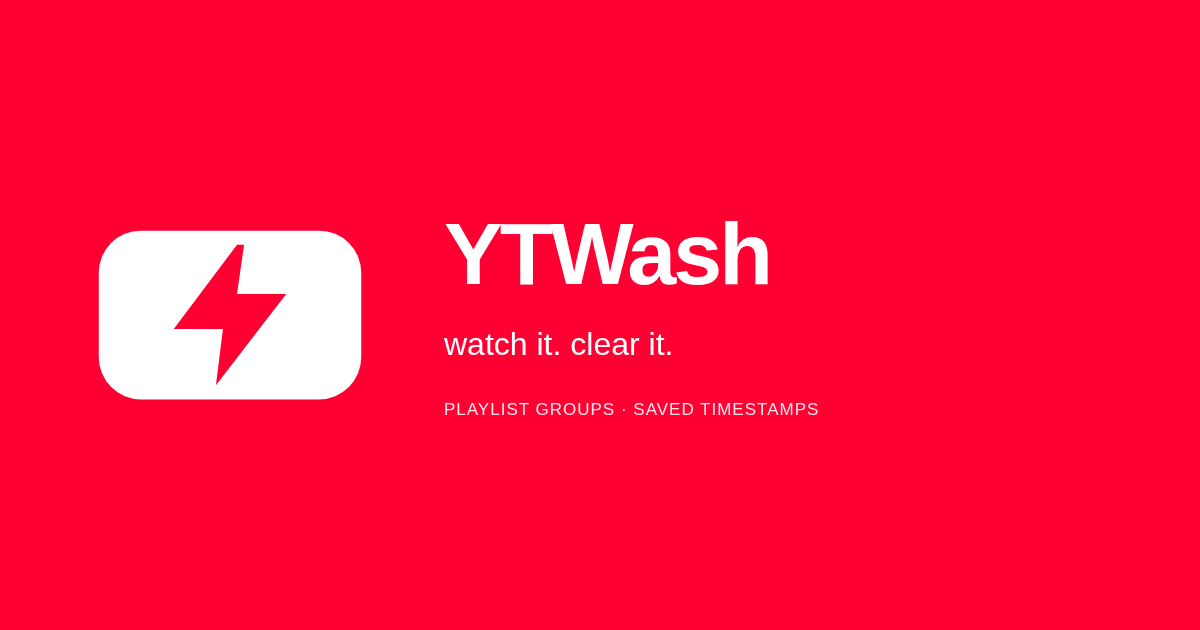
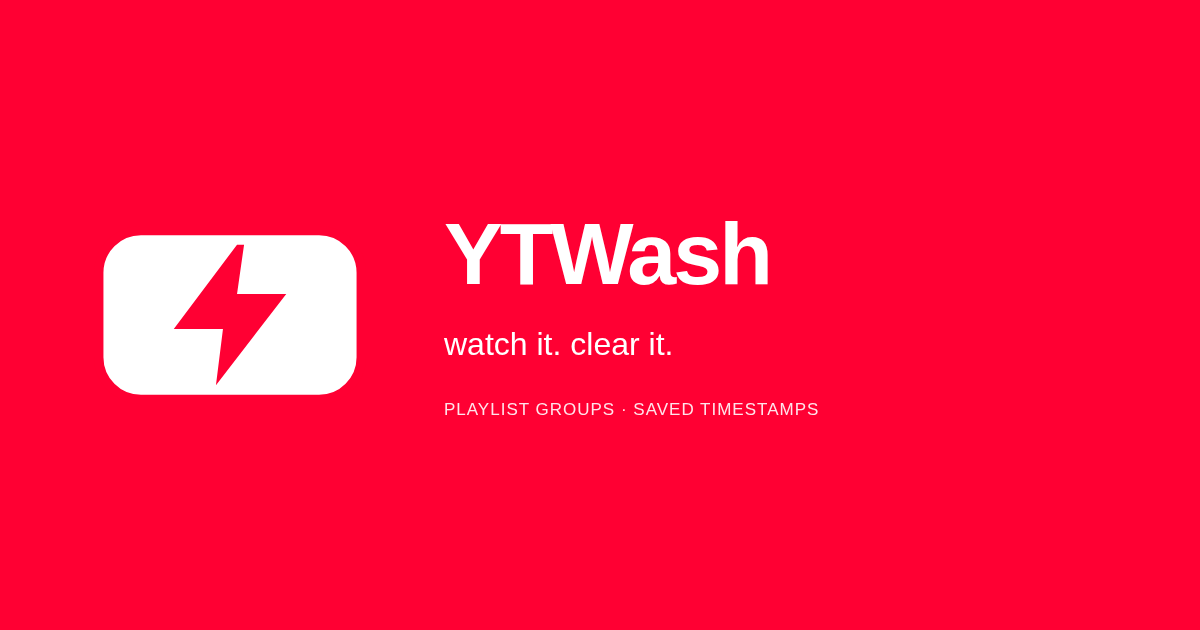
Add a solid red border to the white lightning button

Changed region(s): [[0.0925, 0.3619, 0.3083, 0.6333], [0.0617, 0.3921, 0.0925, 0.6032]]

diff --git a/assets/brand/social-preview.html b/assets/brand/social-preview.html
@@ -5,5 +5,5 @@
   .copy{flex:1}h1{font-size:88px;letter-spacing:-3px;margin:0 0 24px;line-height:1}
   p{font-size:32px;line-height:1.4;margin:0;max-width:720px;font-weight:500}
   .features{font-size:17px;letter-spacing:1px;margin-top:34px;color:#ffe4eb}
-  </style></head><body><div class="logo"><svg xmlns="http://www.w3.org/2000/svg" viewBox="0 0 512 512" role="img" aria-label="YTWash"><rect x="32" y="112" width="448" height="288" rx="72" fill="#ffffff" fill-opacity="1"/><path d="M13 2 4 14h7l-1 8 10-13h-7l1-7z" transform="translate(112 112) scale(12)" fill="#ff0033"/></svg>
+  </style></head><body><div class="logo"><svg xmlns="http://www.w3.org/2000/svg" viewBox="0 0 512 512" role="img" aria-label="YTWash"><rect x="32" y="112" width="448" height="288" rx="72" fill="#ffffff" fill-opacity="1" stroke="#ff0033" stroke-width="16"/><path d="M13 2 4 14h7l-1 8 10-13h-7l1-7z" transform="translate(112 112) scale(12)" fill="#ff0033"/></svg>
 </div><div class="copy"><h1>YTWash</h1><p>watch it. clear it.</p><div class="features">PLAYLIST GROUPS · SAVED TIMESTAMPS</div></div></body></html>

diff --git a/assets/brand/store-marquee.html b/assets/brand/store-marquee.html
@@ -5,5 +5,5 @@
   .copy{flex:1}h1{font-size:88px;letter-spacing:-3px;margin:0 0 24px;line-height:1}
   p{font-size:32px;line-height:1.4;margin:0;max-width:720px;font-weight:500}
   .features{font-size:17px;letter-spacing:1px;margin-top:34px;color:#ffe4eb}
-  </style></head><body><div class="logo"><svg xmlns="http://www.w3.org/2000/svg" viewBox="0 0 512 512" role="img" aria-label="YTWash"><rect x="32" y="112" width="448" height="288" rx="72" fill="#ffffff" fill-opacity="1"/><path d="M13 2 4 14h7l-1 8 10-13h-7l1-7z" transform="translate(112 112) scale(12)" fill="#ff0033"/></svg>
+  </style></head><body><div class="logo"><svg xmlns="http://www.w3.org/2000/svg" viewBox="0 0 512 512" role="img" aria-label="YTWash"><rect x="32" y="112" width="448" height="288" rx="72" fill="#ffffff" fill-opacity="1" stroke="#ff0033" stroke-width="16"/><path d="M13 2 4 14h7l-1 8 10-13h-7l1-7z" transform="translate(112 112) scale(12)" fill="#ff0033"/></svg>
 </div><div class="copy"><h1>YTWash</h1><p>watch it. clear it.</p><div class="features">PLAYLIST GROUPS · SAVED TIMESTAMPS</div></div></body></html>

diff --git a/assets/brand/store-tile.html b/assets/brand/store-tile.html
@@ -5,5 +5,5 @@
   .copy{flex:1}h1{font-size:38px;letter-spacing:-3px;margin:0 0 12px;line-height:1}
   p{font-size:17px;line-height:1.4;margin:0;max-width:720px;font-weight:500}
   .features{font-size:11px;letter-spacing:0px;margin-top:18px;color:#ffe4eb}
-  </style></head><body><div class="logo"><svg xmlns="http://www.w3.org/2000/svg" viewBox="0 0 512 512" role="img" aria-label="YTWash"><rect x="32" y="112" width="448" height="288" rx="72" fill="#ffffff" fill-opacity="1"/><path d="M13 2 4 14h7l-1 8 10-13h-7l1-7z" transform="translate(112 112) scale(12)" fill="#ff0033"/></svg>
+  </style></head><body><div class="logo"><svg xmlns="http://www.w3.org/2000/svg" viewBox="0 0 512 512" role="img" aria-label="YTWash"><rect x="32" y="112" width="448" height="288" rx="72" fill="#ffffff" fill-opacity="1" stroke="#ff0033" stroke-width="16"/><path d="M13 2 4 14h7l-1 8 10-13h-7l1-7z" transform="translate(112 112) scale(12)" fill="#ff0033"/></svg>
 </div><div class="copy"><h1>YTWash</h1><p>watch it. clear it.</p><div class="features">PLAYLIST GROUPS · SAVED TIMESTAMPS</div></div></body></html>
